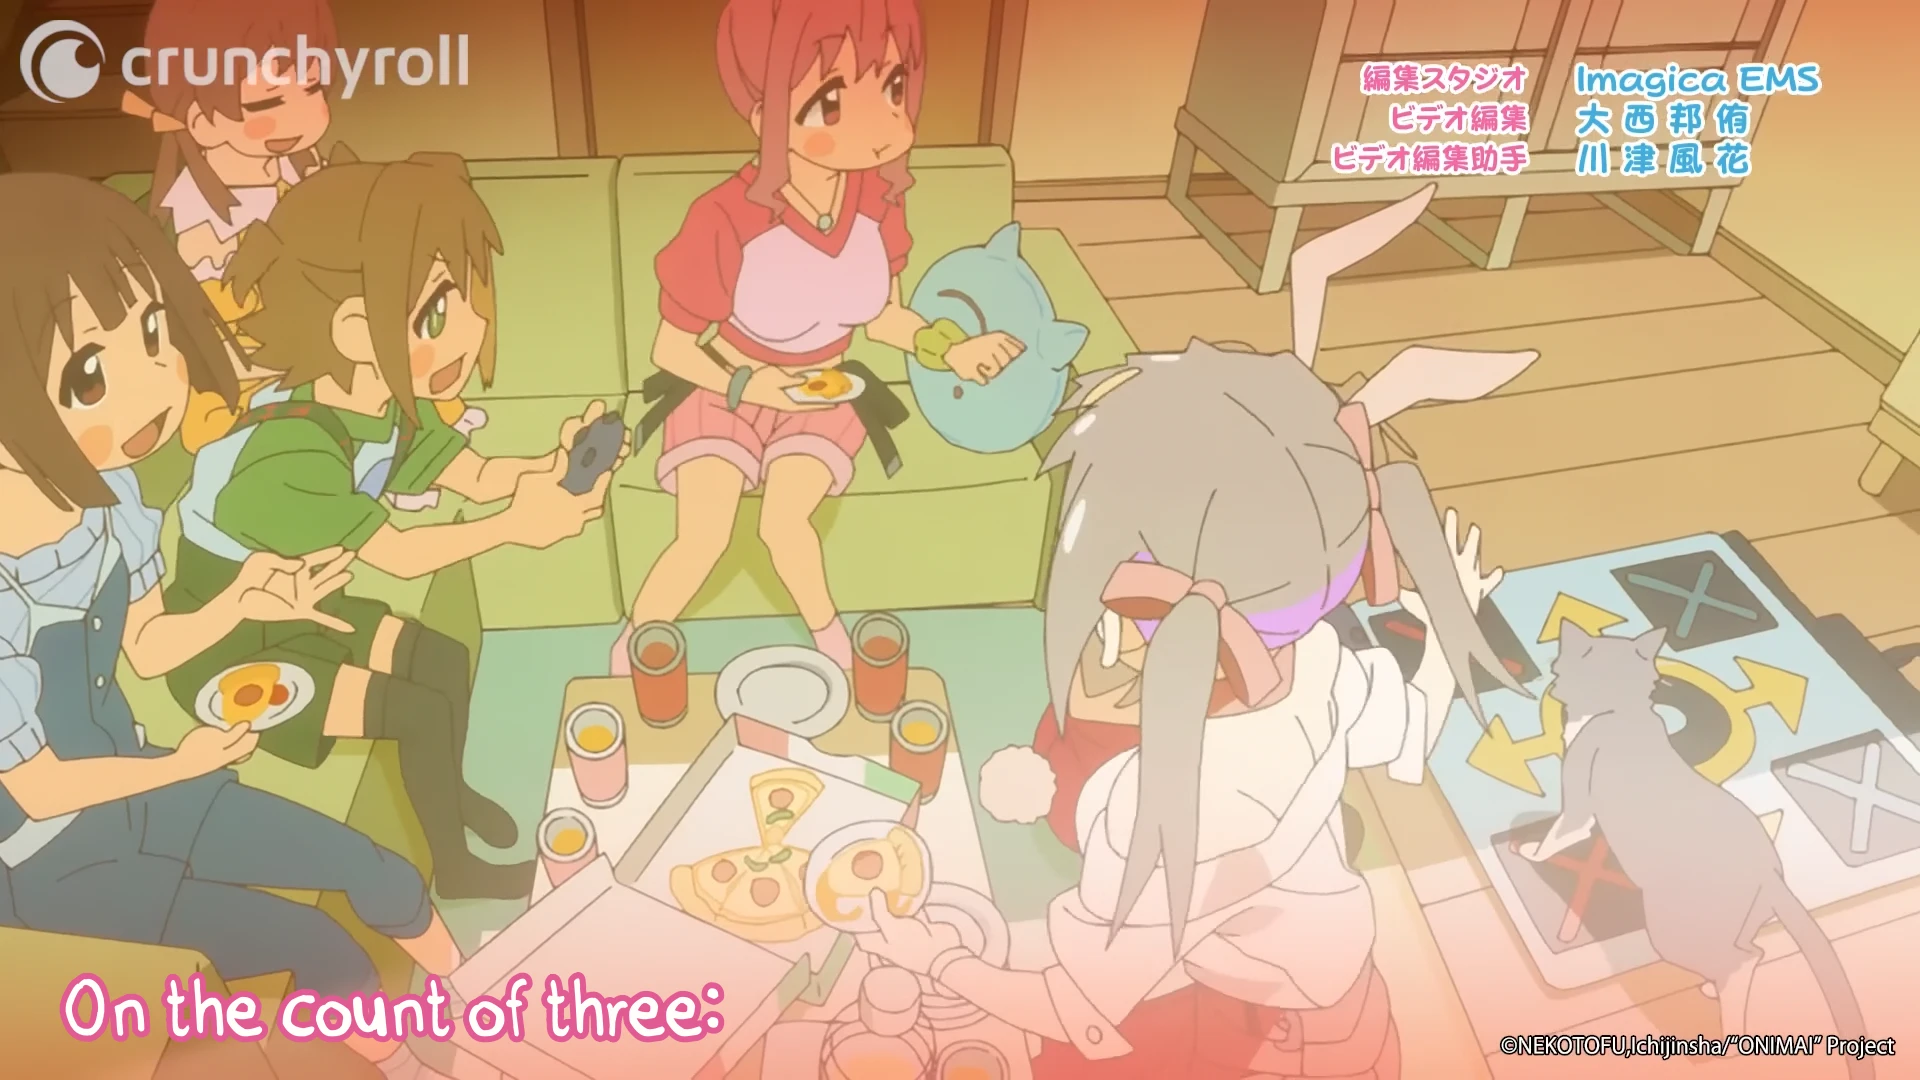
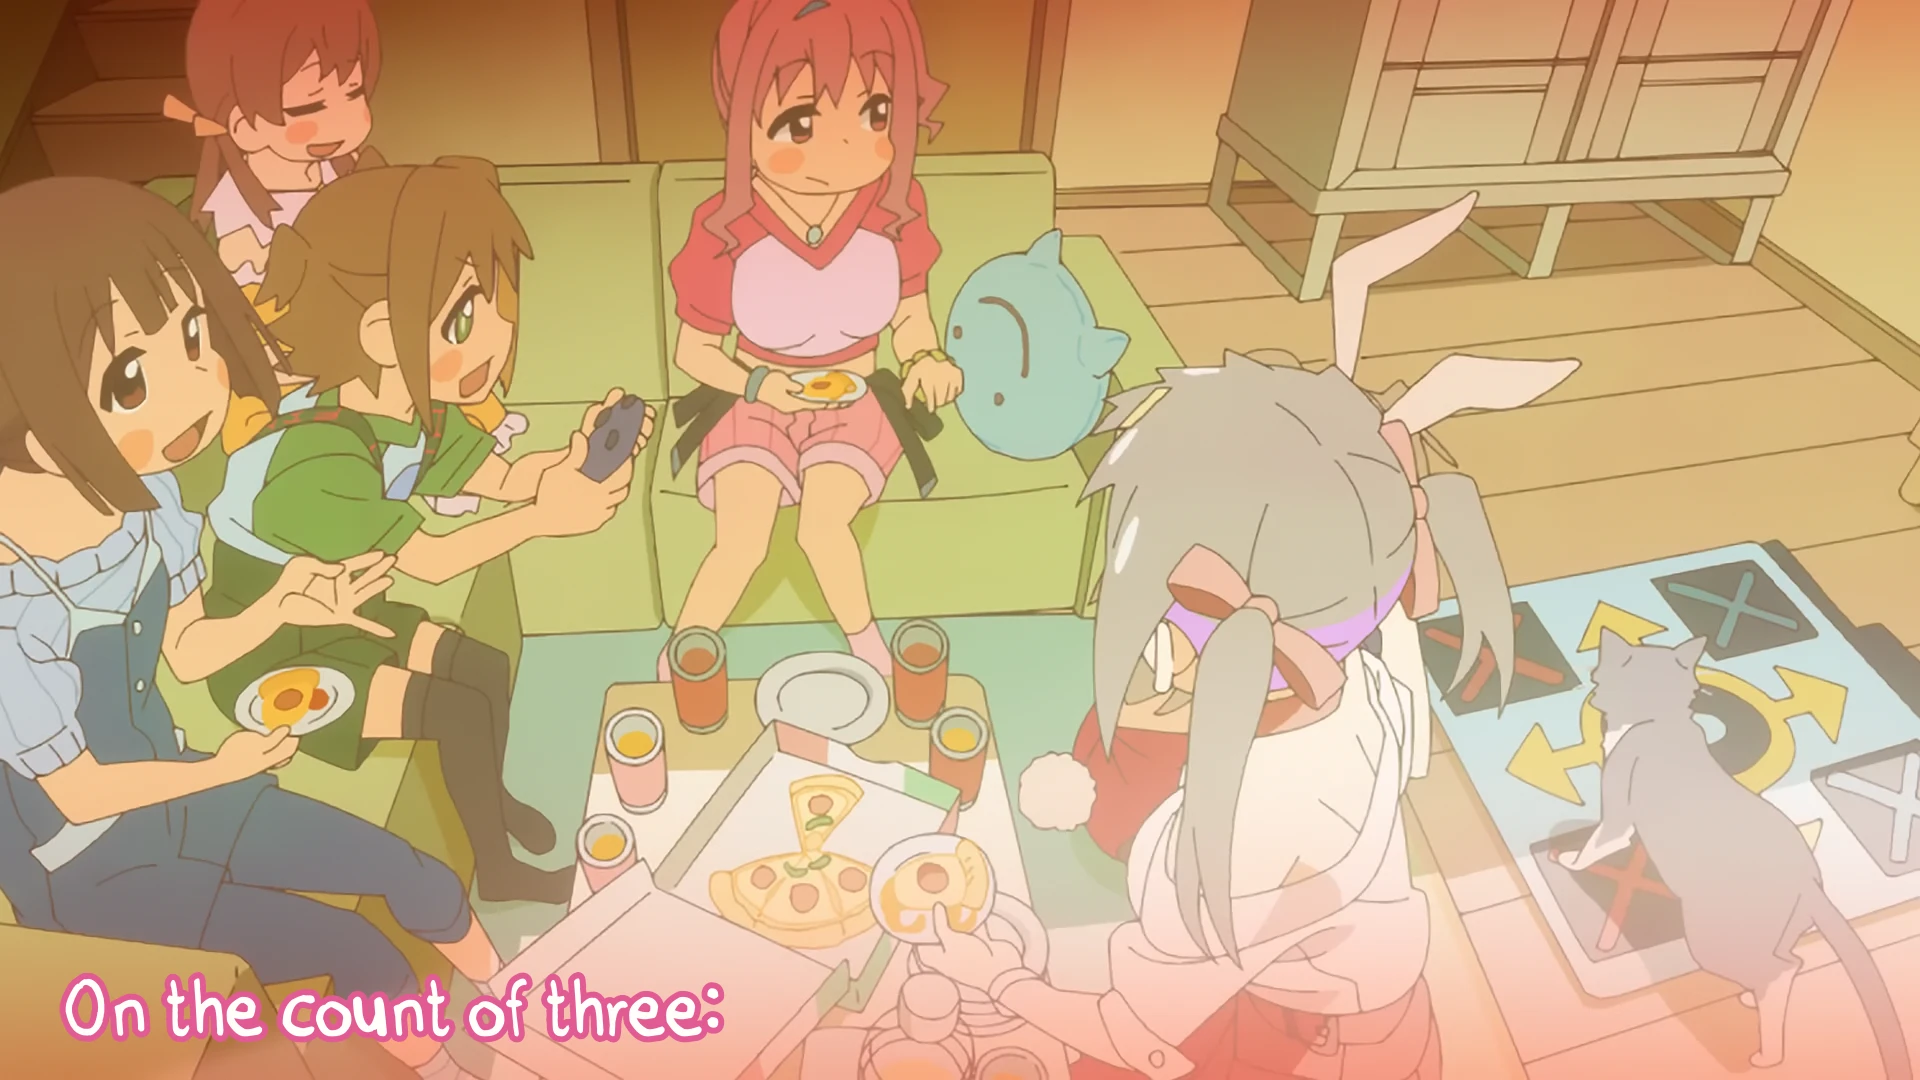
Add TOHO animation upload

diff --git a/Subtitles/ONIMAI I'm Now Your Sister ED - Himegoto Cry Sisters/readme.md b/Subtitles/ONIMAI I'm Now Your Sister ED - Himegoto Cry Sisters/readme.md
@@ -3,12 +3,20 @@
 
 <table align='center'>
     <tr>
+        <td> <b>TOHO animation (creditless)</b> </td>
+        <td> <img src='../.img/youtube.svg' alt='YouTube' width=27 align='center'> &nbsp https://youtu.be/qrgaRfJUSyY </td>
+        <td> <img src='../.img/nekocap.svg' alt='NekoCap' width=23 align='center'> &nbsp https://nekocap.com/view/BBtRAE4MWr </td>
+    </tr>
+</table>
+<table align='center'>
+    <tr>
+        <td> <b>Crunchyroll</b> </td>
         <td> <img src='../.img/youtube.svg' alt='YouTube' width=27 align='center'> &nbsp https://youtu.be/F1Gm_LXTUGc </td>
         <td> <img src='../.img/nekocap.svg' alt='NekoCap' width=23 align='center'> &nbsp https://nekocap.com/view/yhcpDus9jX </td>
     </tr>
 </table>
 
-[![](./preview.webp)](https://www.youtube.com/watch?v=F1Gm_LXTUGc&nekocap=yhcpDus9jX)
+[![](./preview.webp)](https://www.youtube.com/watch?v=qrgaRfJUSyY&nekocap=BBtRAE4MWr)
 
 <table align='center'>
     <tr>
@@ -20,7 +28,7 @@
 </table>
 
 **Uploaded:** October 18, 2024  
-**Last updated:** October 18, 2024
+**Last updated:** October 19, 2024
 
 <!-- Description goes here -->
 
@@ -28,7 +36,8 @@
 
 | File | Description |
 | ---- | ----------- |
-[`himegoto cry sisters.ass`](himegoto%20cry%20sisters.ass) | Subtitle file |
+[`himegoto cry sisters toho.ass`](himegoto%20cry%20sisters%20toho.ass) | TOHO animation upload (creditless) |
+[`himegoto cry sisters.ass`](himegoto%20cry%20sisters.ass) | Crunchyroll upload |
 
 ## Font list
 
@@ -36,6 +45,7 @@
 | ---- | ---- | :--: |
  [`DENNEMARKER.TTF`](./fonts/DENNEMARKER.TTF) | Denne Marker | ❌ |
  [`MaplestoryBold.ttf`](https://github.com/abrokecube/subtitles-fonts/tree/main/NekoCap%20fonts/MaplestoryBold.ttf) | Maplestory Bold | ✔ |
+ [`MaplestoryLight.ttf`](https://github.com/abrokecube/subtitles-fonts/tree/main/NekoCap%20fonts/MaplestoryLight.ttf) | Maplestory Light | ✔ |
 
 <!-- Permissions -->
 ## 
